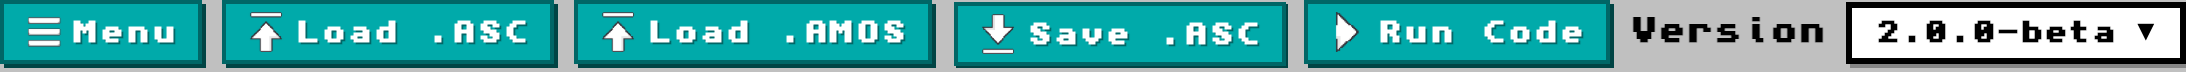
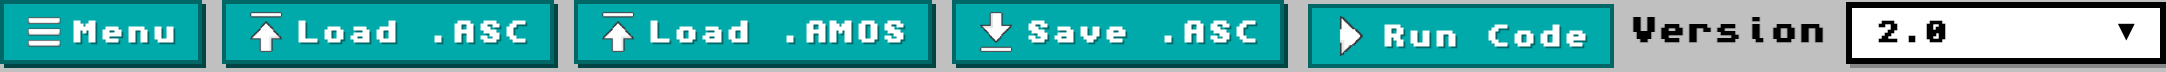
env: rename all version removing the third number (now 1.1, 1.2, 2.0)

Changed region(s): [[0.0309, 0.0, 0.9898, 0.9444]]

diff --git a/src/app/components/cina/side-navigation.js b/src/app/components/cina/side-navigation.js
@@ -124,7 +124,6 @@ export default function SideNavigation({
       action: () =>
         loadExample(
           '/reanimate26/EscapeFromReanimate_Kotowicz_Maher_Abdalla_Ullmann/Game.asc',
-          // "/reanimate26/EscapeFromReanimate_Kotowicz_Maher_Abdalla_Ullmann/Game (Adapted to v2.0.0).asc",
           [
             {
               path: '/reanimate26/EscapeFromReanimate_Kotowicz_Maher_Abdalla_Ullmann/AmosBank_Escape1.abk',
@@ -145,7 +144,7 @@ export default function SideNavigation({
       action: () =>
         loadExample(
           '/reanimate26/ParkBedlam_Shifan_Franiczek_Ejaz_Scistri/park_bedlam_v20.asc',
-          // "/reanimate26/ParkBedlam_Shifan_Franiczek_Ejaz_Scistri/park_bedlam_v20 (Adapted to v2.0.0).asc",
+          // "/reanimate26/ParkBedlam_Shifan_Franiczek_Ejaz_Scistri/park_bedlam_v20 (Adapted to v2.0).asc",
           [
             {
               path: '/reanimate26/ParkBedlam_Shifan_Franiczek_Ejaz_Scistri/AleksBank.abk',
@@ -196,7 +195,6 @@ export default function SideNavigation({
       action: () =>
         loadExample(
           '/reanimate26/GalaxyPatrol_Tondorf_Chua_Zongo_Bijani/GalaxyPatrol_TCZB.asc',
-          // "/reanimate26/GalaxyPatrol_Tondorf_Chua_Zongo_Bijani/GalaxyPatrol_TCZB (Adapted to v2.0.0).asc",
           [
             {
               path: '/reanimate26/GalaxyPatrol_Tondorf_Chua_Zongo_Bijani/gjs.abk',

diff --git a/public/docs/tutorial.md b/public/docs/tutorial.md
@@ -12,7 +12,7 @@ Each programming lesson also has a **checkpoint**: a complete, runnable `.asc` f
 
 Screenshots show real CRVJA results. Select any image to open it at full size.
 
-> Use transpiler **2.0.0-beta** throughout this guide. Keep `tutorial_bank.abk` selected in **Bank 1** when running the sprite lessons.
+> Use transpiler **2.0** throughout this guide. Keep `tutorial_bank.abk` selected in **Bank 1** when running the sprite lessons.
 
 ## Lesson 1 — Bring sprites in from your computer
 
@@ -21,11 +21,11 @@ Screenshots show real CRVJA results. Select any image to open it at full size.
 ### Open the code editor
 
 1. Double-click **CINA** on the CRVJA desktop.
-2. Set **Version** to **2.0.0-beta**.
+2. Set **Version** to **2.0**.
 3. Locate **Load .ASC**, **Save .ASC**, and **Run Code**. The editor is on the left; **Program Screen** is on the right.
 4. Close the examples sidebar with **Menu** if you need more room.
 
-![CINA toolbar showing Load .ASC, Save .ASC, Run Code, and Version 2.0.0-beta](/docs/tutorial/01-cina-version.png)
+![CINA toolbar showing Load .ASC, Save .ASC, Run Code, and Version 2.0](/docs/tutorial/01-cina-version.png)
 
 *Use Run Code after changing a program. Later, click inside Program Screen before using the movement keys.*
 
@@ -442,8 +442,8 @@ End If
 ## Save, restart, and troubleshoot
 
 - **Save your changes:** use **Save .ASC** in CINA. Your downloaded file contains the current editor text.
-- **Start the same lesson again:** save any changes you want to keep, refresh CRVJA, reopen CINA, choose `2.0.0-beta`, select the bank in Bank 1, and use **Load .ASC** for your lesson file. Then press **Run Code**.
-- **No sprites:** check Bank 1 contains `tutorial_bank.abk`, the code loads that name, and the selected version is `2.0.0-beta`.
+- **Start the same lesson again:** save any changes you want to keep, refresh CRVJA, reopen CINA, choose `2.0`, select the bank in Bank 1, and use **Load .ASC** for your lesson file. Then press **Run Code**.
+- **No sprites:** check Bank 1 contains `tutorial_bank.abk`, the code loads that name, and the selected version is `2.0`.
 - **Keys do nothing:** click inside **Program Screen**, then use WASD. Clicking the code editor sends typing there instead.
 - **An error is highlighted:** compare your code with the checkpoint. Check commas, quotation marks, `End If`, `Loop`, and `End Proc`.
 - **An item disappeared:** that is expected during its five-second cooldown. It returns on the other side; movement should continue.
